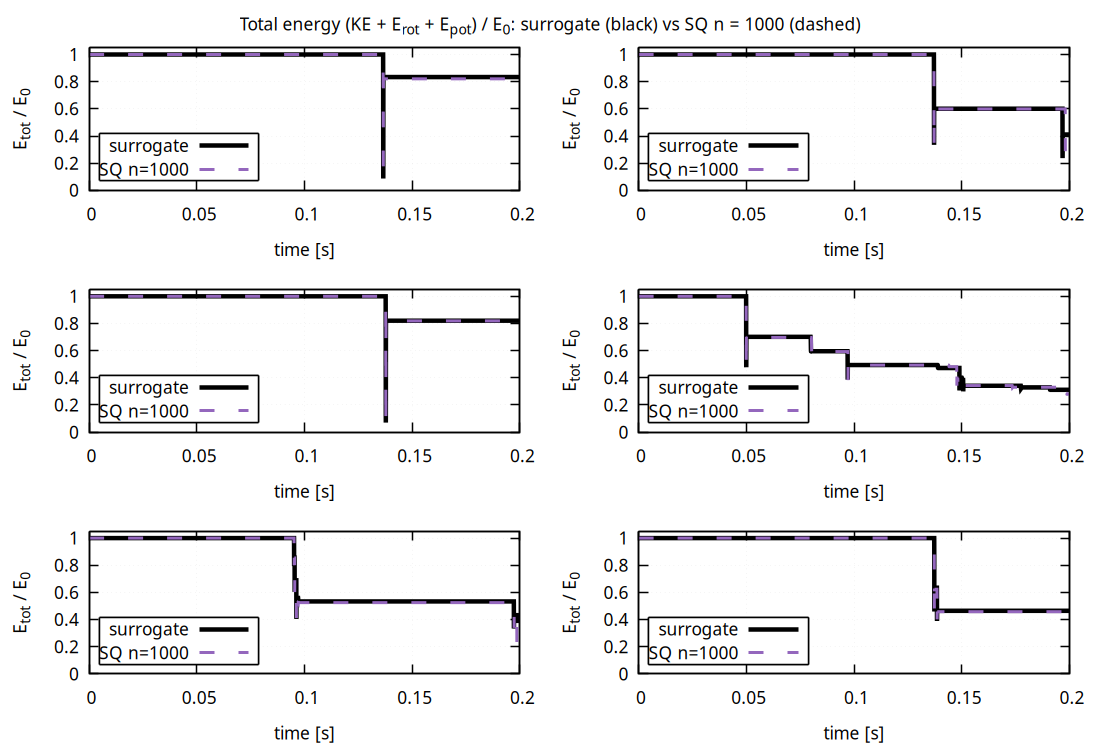
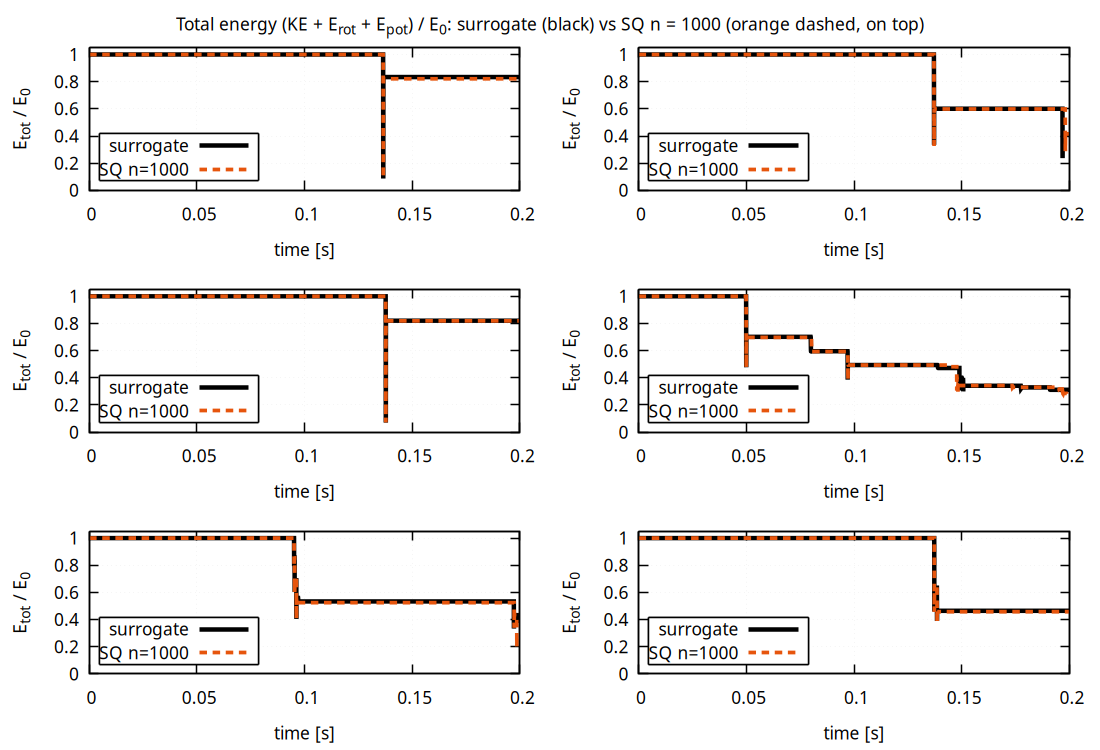
Comparison figures: draw superquadric reference on top of the surrogate (was hidden in Fig. 5)
- Fig. 5 (case 03b): SQ n = 1000 now orange dashed on top, plus a difference panel
  (dvz, dwx surrogate - SQ); the two curves coincide almost everywhere.
- Fig. 2, 4 and 3a-3e: same fix (surrogate drawn first, SQ curves on top, n = 1000 dashed).
- REPORT.md captions updated.

diff --git a/DOCUMENTATION.md/comparison_surrogate_vs_superquadric/REPORT.md b/DOCUMENTATION.md/comparison_surrogate_vs_superquadric/REPORT.md
@@ -128,7 +128,7 @@ Observations:
 ![Figure 3e](plots/fig_c05c_spin_h010_first_impact.png)
 
 **Figure 3e (example)** — centre height z_c/L, v_z and ‖ω‖ around the first impact of case 05c;
-surrogate in black, SQ n = 10 … 1000 coloured (n = 1000 dashed). The SQ curves move toward the
+surrogate in black (drawn first), SQ n = 10 … 1000 coloured on top (n = 1000 purple dashed). The SQ curves move toward the
 surrogate as n grows; n = 1000 is close to the surrogate in all three panels.
 
 **Time-series data files** `data/ts_<case>_<model>.dat`, `<model>` ∈ {surrogate, sq_n10, …, sq_n1000}.
@@ -140,8 +140,8 @@ Sampling: every step within ±200 steps of any contact, every 10th step elsewher
 
 ![Figure 2](plots/fig02_trajectories_full.png)
 
-**Figure 2** — `plots/fig02_trajectories_full.png`: centre height over 0.2 s, surrogate vs SQ
-n = 1000, all cases. **Data:** `data/ts_<case>_surrogate.dat`, `data/ts_<case>_sq_n1000.dat`
+**Figure 2** — `plots/fig02_trajectories_full.png`: centre height over 0.2 s, surrogate (black)
+vs SQ n = 1000 (orange dashed, on top), all cases. **Data:** `data/ts_<case>_surrogate.dat`, `data/ts_<case>_sq_n1000.dat`
 (column 2 time, column 5 z_c).
 
 - Maximum |Δz_c| over the whole run: 0.007 L (edge), 0.05–0.08 L (corner and spinning cases).
@@ -157,7 +157,7 @@ n = 1000, all cases. **Data:** `data/ts_<case>_surrogate.dat`, `data/ts_<case>_s
 ![Figure 4](plots/fig03_energy.png)
 
 **Figure 4** — `plots/fig03_energy.png`: E_tot / E₀ = (KE + E_rot + E_pot)/E₀ vs time,
-surrogate vs SQ n = 1000. **Data:** column 15 of `data/ts_<case>_*.dat`.
+surrogate (black) vs SQ n = 1000 (orange dashed, on top). **Data:** column 15 of `data/ts_<case>_*.dat`.
 
 - In every run (40 runs) `max(E_tot)/E₀ = 1.00000000` (column `max_etot_over_E0` of
   `first_impact_summary.dat`): energy never increases; it drops only during contacts
@@ -175,9 +175,16 @@ single corner still touches first, but 0.366 L sideways of the centre (2nd verte
 ![Figure 5](plots/fig_c03b_corner_tilt25_first_impact.png)
 
 **Figure 5** — `plots/fig_c03b_corner_tilt25_first_impact.png`: z_c/L, v_z, ω_x and E_rot
-around the first impact, surrogate (black) vs SQ n = 1000 (dashed). **Data:**
+around the first impact, surrogate (black, solid) vs SQ n = 1000 (orange dashed, drawn on top
+so that it stays visible where the two curves coincide), plus a bottom panel with the
+differences Δv_z (left axis) and Δω_x (right axis), surrogate − SQ. **Data:**
 `data/ts_c03b_corner_tilt25_surrogate.dat`, `data/ts_c03b_corner_tilt25_sq_n1000.dat`
-(columns as in Section 3.3; ω_x = column 9, E_rot = column 13).
+(columns as in Section 3.3; ω_x = column 9, E_rot = column 13; the difference panel joins the
+two files on the step column).
+
+The curves overlap almost everywhere (Δv_z ≤ 0.1 m/s and Δω_x ≤ 16 rad/s only during the
+~15 contact steps, then 0.015 m/s and 2.3 rad/s after the impact), which is why the reference
+curve must be drawn on top.
 
 **Result: the impact spins the cube, as expected.**
 
